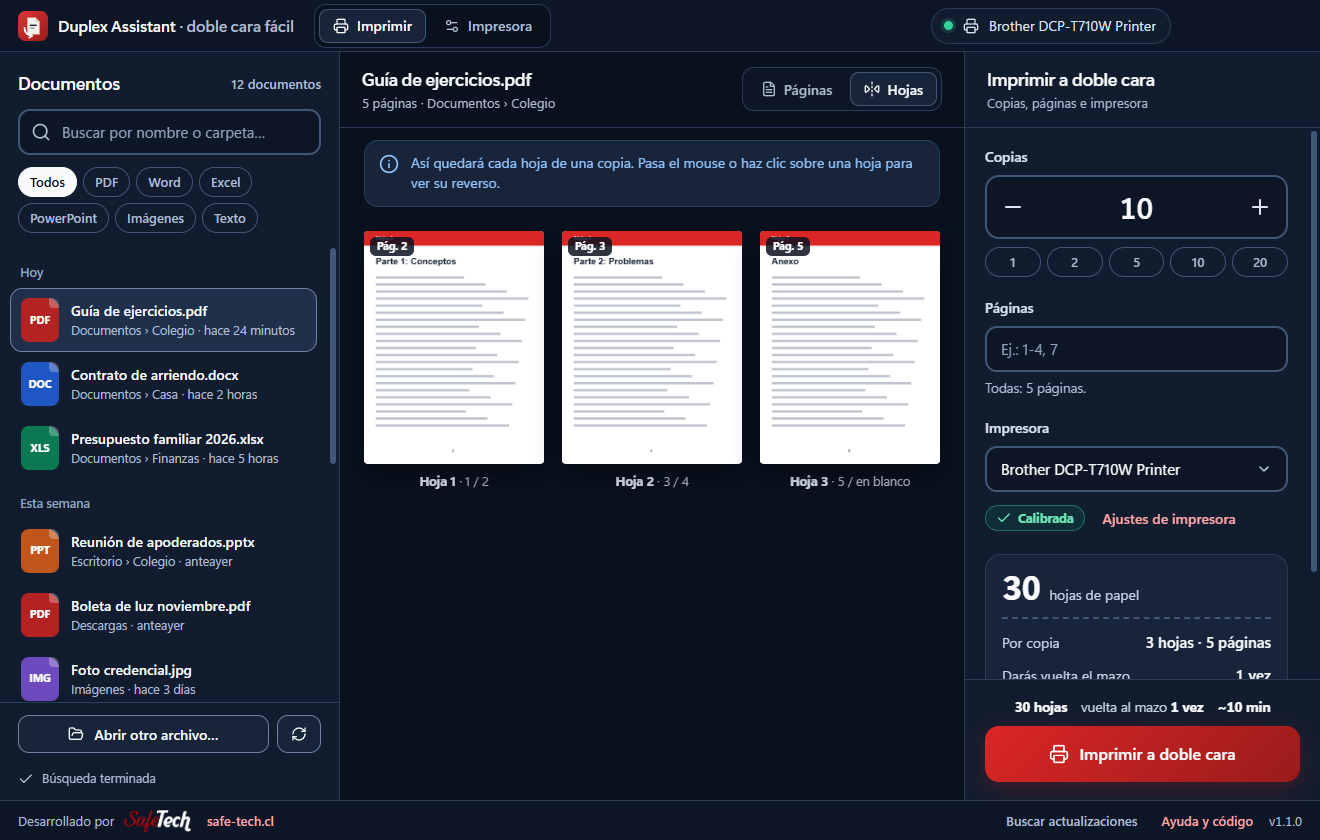
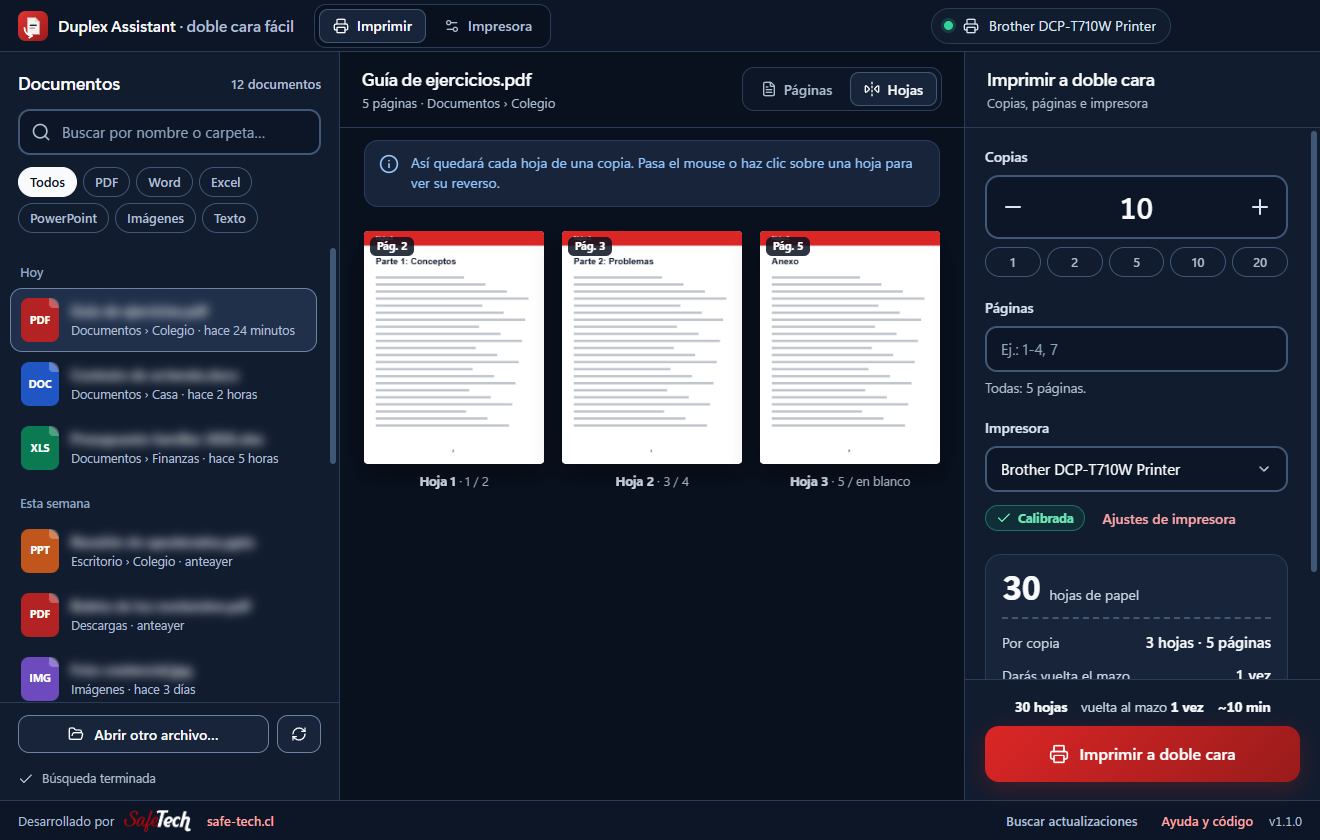
Capturas: desenfocar los nombres de archivo de la lista

diff --git a/src/renderer/selftest.js b/src/renderer/selftest.js
@@ -20,6 +20,10 @@ function clickText(text) {
 export async function selftest(app, samplePath) {
   const T = window.daTest;
   const real = window.da;
+  // Las capturas son públicas: se desenfocan los nombres de archivo de la lista.
+  document.head.append(Object.assign(document.createElement('style'), {
+    textContent: '.file-row .fname { filter: blur(5px); }',
+  }));
   // Impresora simulada: nada llega al papel y la configuración real no cambia.
   let fakeProfile = null;
   app.api = {
